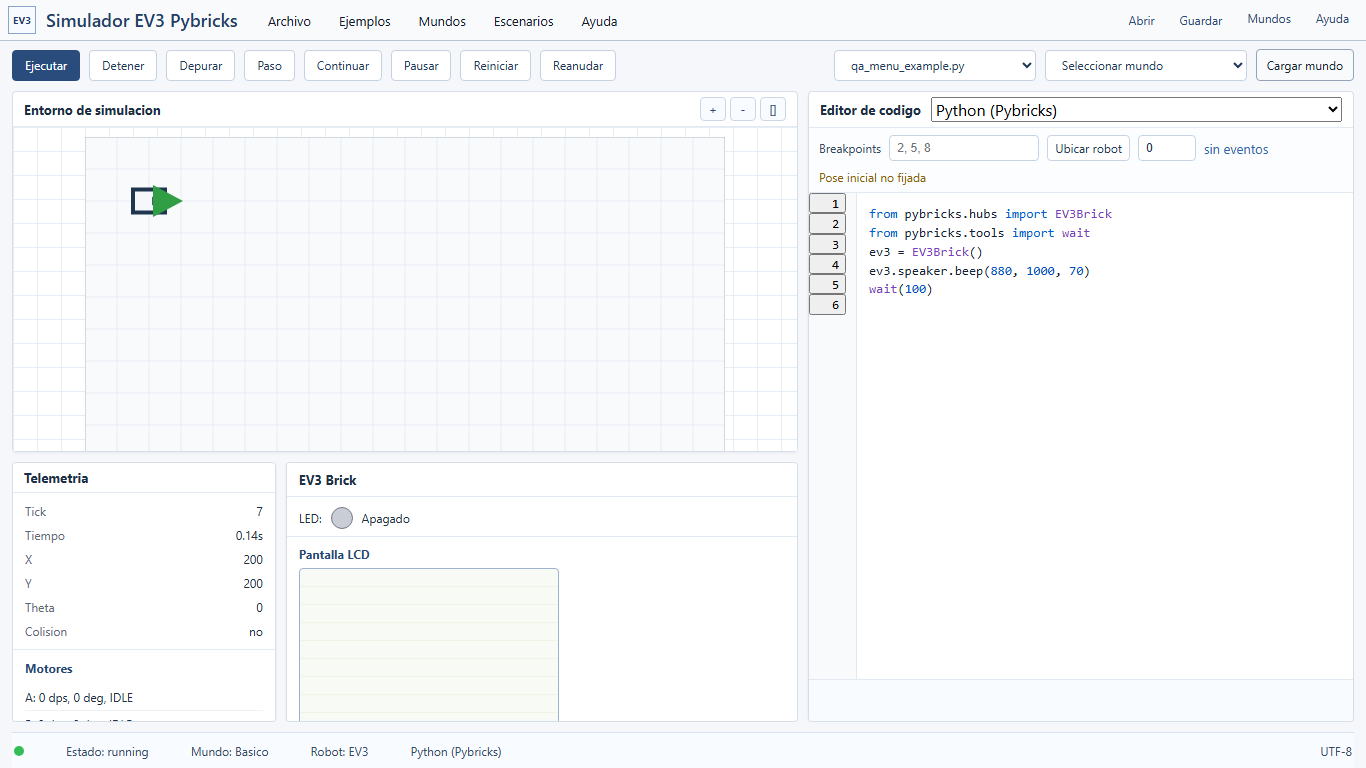
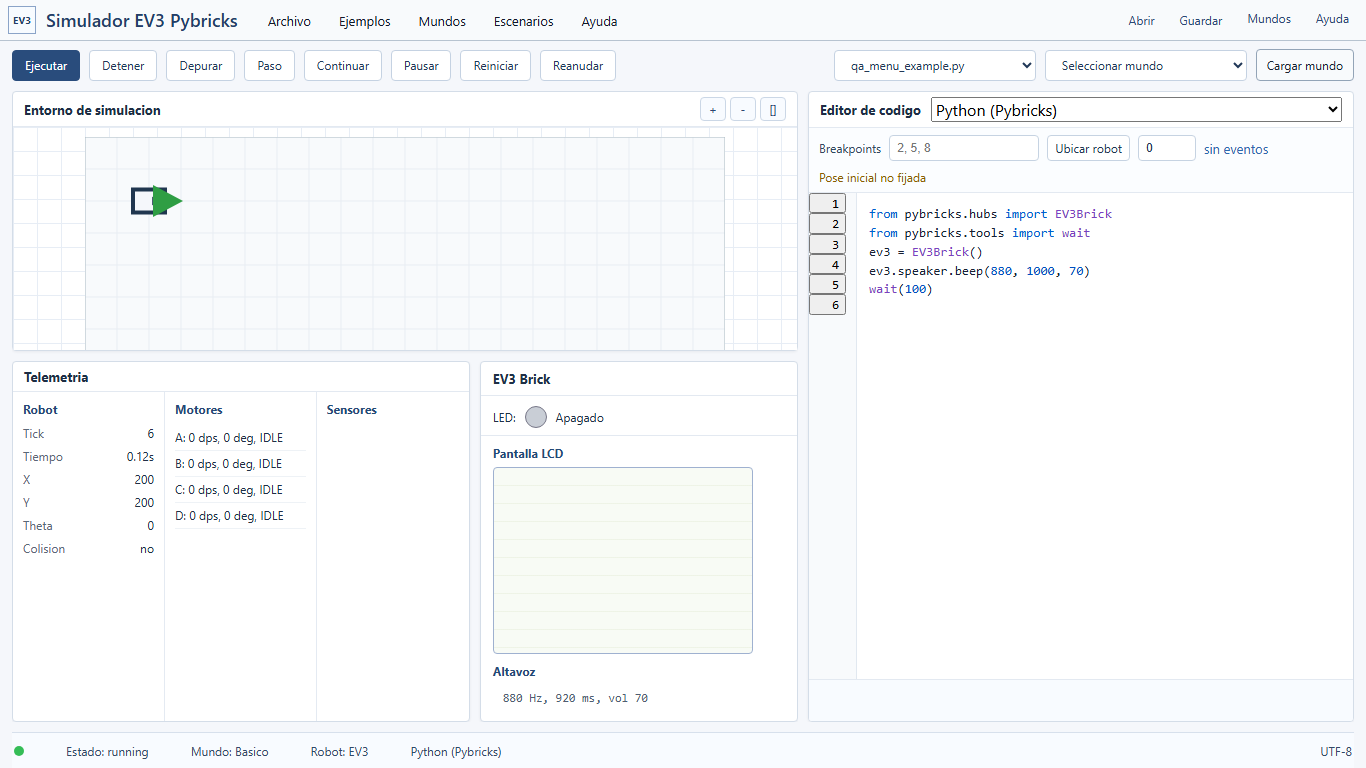
ui: reorganizar telemetria en columnas

diff --git a/simulador_ev3/web/static/css/app.css b/simulador_ev3/web/static/css/app.css
@@ -489,7 +489,7 @@ dd {
   min-width: 0;
   min-height: 0;
   display: grid;
-  grid-template-rows: minmax(280px, 1fr) minmax(215px, 0.72fr);
+  grid-template-rows: minmax(240px, 0.72fr) minmax(300px, 1fr);
   gap: 10px;
   overflow: hidden;
 }
@@ -498,7 +498,7 @@ dd {
   min-width: 0;
   min-height: 0;
   display: grid;
-  grid-template-columns: minmax(220px, 0.68fr) minmax(360px, 1.32fr);
+  grid-template-columns: minmax(430px, 1.18fr) minmax(300px, 0.82fr);
   gap: 10px;
   overflow: hidden;
 }
@@ -586,15 +586,30 @@ dd {
 }
 
 .sim-telemetry-pane {
+  display: grid;
+  grid-template-columns: repeat(3, minmax(120px, 1fr));
+  grid-template-rows: auto minmax(0, 1fr);
   overflow: auto;
   padding: 0;
   background: #fff;
 }
 
+.sim-telemetry-pane .sim-panel-header {
+  grid-column: 1 / -1;
+}
+
 .telemetry-section {
-  padding: 10px 12px;
+  min-width: 0;
+  min-height: 0;
+  overflow: auto;
+  padding: 9px 10px;
   margin: 0;
-  border-bottom: 1px solid #e4eaf2;
+  border-right: 1px solid #e4eaf2;
+  border-bottom: 0;
+}
+
+.telemetry-section:last-child {
+  border-right: 0;
 }
 
 .telemetry-section h3 {
@@ -604,8 +619,8 @@ dd {
 }
 
 .sim-telemetry-pane dl {
-  grid-template-columns: minmax(92px, auto) 1fr;
-  gap: 8px 12px;
+  grid-template-columns: minmax(58px, auto) 1fr;
+  gap: 7px 8px;
   font-size: 12px;
 }
 
@@ -625,6 +640,8 @@ dd {
   background: #fff;
   color: #1f2f46;
   font-size: 12px;
+  line-height: 1.25;
+  overflow-wrap: anywhere;
 }
 
 .sim-code-pane {

diff --git a/simulador_ev3/web/templates/index.html b/simulador_ev3/web/templates/index.html
@@ -92,6 +92,7 @@
               <h2>Telemetria</h2>
             </div>
             <section class="telemetry-section">
+              <h3>Robot</h3>
               <dl id="telemetry"></dl>
             </section>
             <section class="telemetry-section motors-section">

diff --git a/tests/web/test_web_app.py b/tests/web/test_web_app.py
@@ -304,7 +304,21 @@ def test_ev3_lcd_keeps_original_screen_ratio(tmp_path):
     assert "@media (min-height: 940px)" in css
     assert "width: min(356px, calc(100% - 24px));" in css
     assert "aspect-ratio: 178 / 128;" in css
-    assert "grid-template-columns: minmax(220px, 0.68fr) minmax(360px, 1.32fr);" in css
+    assert "grid-template-columns: minmax(430px, 1.18fr) minmax(300px, 0.82fr);" in css
+    assert "grid-template-columns: repeat(3, minmax(120px, 1fr));" in css
+
+
+def test_telemetry_panel_uses_three_readable_columns(tmp_path):
+    client = make_client(tmp_path)
+
+    html = client.get("/").get_data(as_text=True)
+    css = client.get("/static/css/app.css").get_data(as_text=True)
+
+    assert "<h3>Robot</h3>" in html
+    assert "<h3>Motores</h3>" in html
+    assert "<h3>Sensores</h3>" in html
+    assert "grid-template-columns: repeat(3, minmax(120px, 1fr));" in css
+    assert ".telemetry-section:last-child" in css
 
 
 def test_web_editor_places_assets_like_tkinter_tool_origin(tmp_path):
